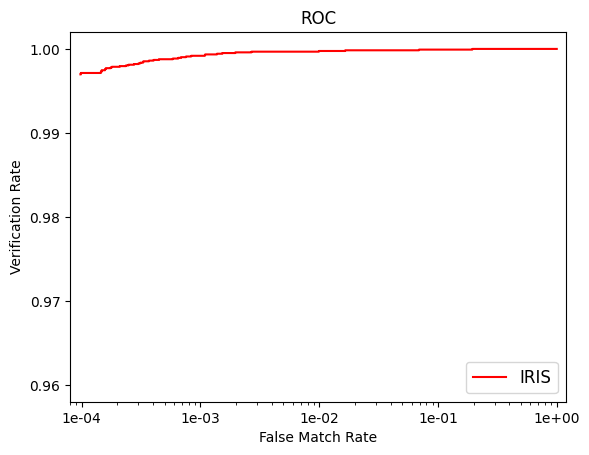
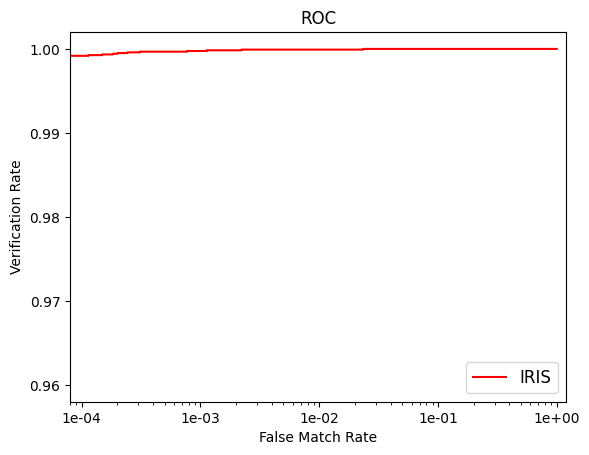
update performance card

Changed region(s): [[0.1222, 0.0923, 0.7946, 0.1846]]

diff --git a/IRIS_PERFORMANCE_CARD.md b/IRIS_PERFORMANCE_CARD.md
@@ -10,7 +10,7 @@ A list of public and private entities participated in the ICE 2005 is shown belo
 
 <img src="./docs/performance_card/ice2005_results.png" width="800" alt="ICE 2005 results">
 
-Fig. 1(a) and 1(b) show the ROC on right and left eye, respectively, from all participants in Iris Challenge Evaluation (ICE) 2005 and Fig. 2(a) and 2(b) show our ROC in comparison*. Although the exact error rates were not published in [1], these plots show IRIS performs as good as if not better than commercial algorithms available at the time.
+Fig. 1(a) and 1(b) show the ROC on right and left eye, respectively, from all participants in Iris Challenge Evaluation (ICE) 2005 and Fig. 2(a) and 2(b) show our ROC in comparison*. Although the exact error rates were not published in [1], these plots show IRIS performs better than commercial algorithms available at the time.
 
 |<img src="./docs/performance_card/comparison_1a.png" alt="1a"> Fig. 1(a) participant ROC on ICE 2005 (right eye) [1]| <img src="./docs/performance_card/comparison_1b.png" alt="1b"> Fig. 1(b) participant ROC on ICE 2005 (left eye) [1]|
 |---|---|
@@ -21,16 +21,16 @@ Fig. 1(a) and 1(b) show the ROC on right and left eye, respectively, from all pa
 
 We also compare our performance with the latest available iris open source algorithm OSIRIS, which has three versions OSIRISV2, OSIRISV4, OSIRISV4.1 [3] as well as HDBIF [4]. As we can see in the table below, IRIS achieves significantly lower False NonMatch Rate (FNMR) at False Match Rate (FMR) of 0.001 and 0.0001 than these open source algorithms.
 
-|                   | OSIRISV2 <br>[2009] | OSIRISV4 <br>[2011] | OSIRISV4.1 <br>[2016] | HDBIF <br>[2019] | IRIS\* <br>[2023] |
+|                   | OSIRISV2 <br>[2009] | OSIRISV4 <br>[2011] | OSIRISV4.1 <br>[2016] | HDBIF <br>[2019] | IRIS\* <br>[2025] |
 |-------------------|----------|----------|------------|-------|--------|
-| FNMR @ FMR=0.001  | 0.174    | 0.031    | 0.019      | 0.025 | 0.003  |
-| FNMR @ FMR=0.0001 | 0.268    | 0.058    | 0.034      | 0.039 | 0.006  |
+| FNMR @ FMR=0.001  | 0.174    | 0.031    | 0.019      | 0.025 | 0.0012 |
+| FNMR @ FMR=0.0001 | 0.268    | 0.058    | 0.034      | 0.039 | 0.0020 |
 
-\*Note that four left eye images failed the default enrollment setting in IRIS with a Failure-To-Enroll (FTE) rate of 0.00135. 
+\*Note that five left eye and two right eye images failed enrollment in IRIS with a Failure-To-Enroll (FTE) rate of 0.00238.
 
 ## ND-LG4000 dataset
 
-ND-LG4000 dataset is part of the ND-CrossSensor-Iris-2013 public dataset from the University of Notre Dame [5]. This dataset was collected from 676 subjects using LG IrisAccess 4000 scanner with image resolution 640x480. We randomly chose 541 subjects for training, 67 subjects for validating the segmentation model in IRIS. The remaining 2187 images from 68 subjects were used for testing, resulting in a total of ~2.4 million matches.
+ND-LG4000 dataset is part of the ND-CrossSensor-Iris-2013 public dataset from the University of Notre Dame [5]. This dataset was collected from 676 subjects using LG IrisAccess 4000 scanner with image resolution 640x480. We randomly chose 541 subjects for training, 67 subjects for validating the segmentation model in IRIS. The remaining 2187 images from 68 subjects were used for testing, including 4 images failed in enrollment, resulting in a total of ~2.4 million matches.
 
 |<img src="./docs/performance_card/lg4000_3a.png" alt="3a"> Fig. 3(a) IRIS ROC on ND-LG4000| <img src="./docs/performance_card/lg4000_3b.png" alt="3b"> Fig. 3(b) IRIS DET on ND-LG4000|
 |---|---|
